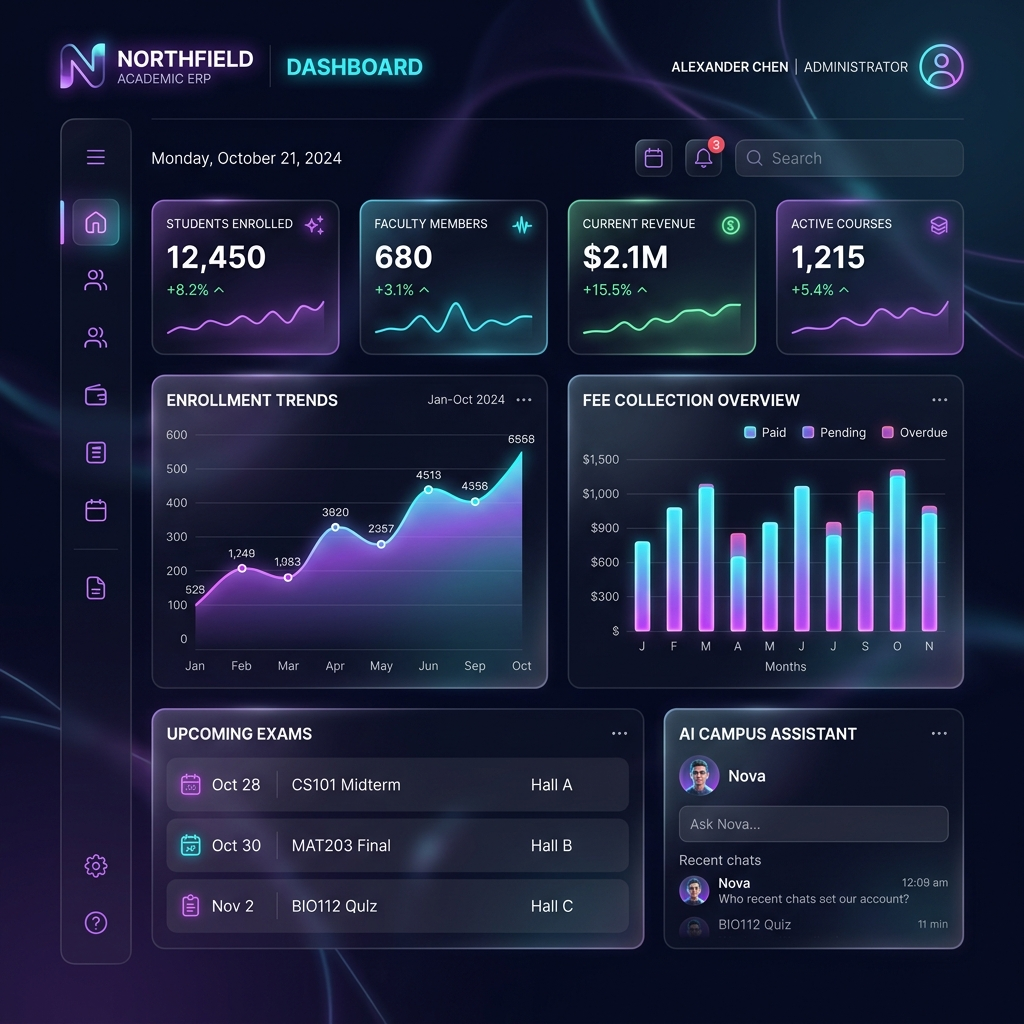
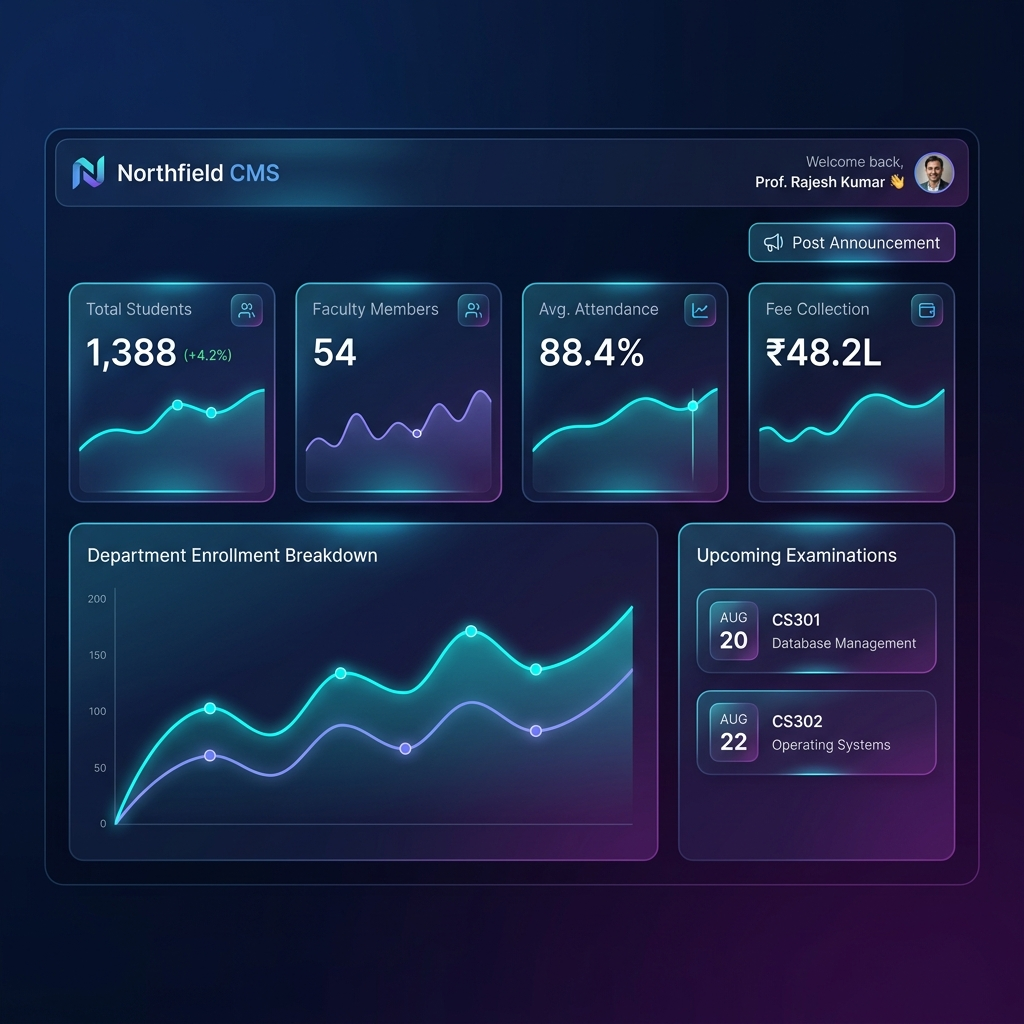
fix(docs): update dashboard preview screenshot matching renderDashboard component and center image tag in README.md

diff --git a/README.md b/README.md
@@ -43,7 +43,12 @@
 ## 🖥 Dashboard Preview & Code Showcase
 
 ### 🎨 Visual Interface Preview
-![Northfield CMS Dashboard Preview](dashboard-preview.png)
+
+<p align="center">
+  <a href="dashboard-preview.png" target="_blank">
+    <img src="dashboard-preview.png" width="100%" alt="Northfield CMS Academic Dashboard UI Preview" style="border-radius: 12px; border: 1px solid rgba(255,255,255,0.15); box-shadow: 0 10px 30px rgba(0,0,0,0.5);" />
+  </a>
+</p>
 
 <br>
 
